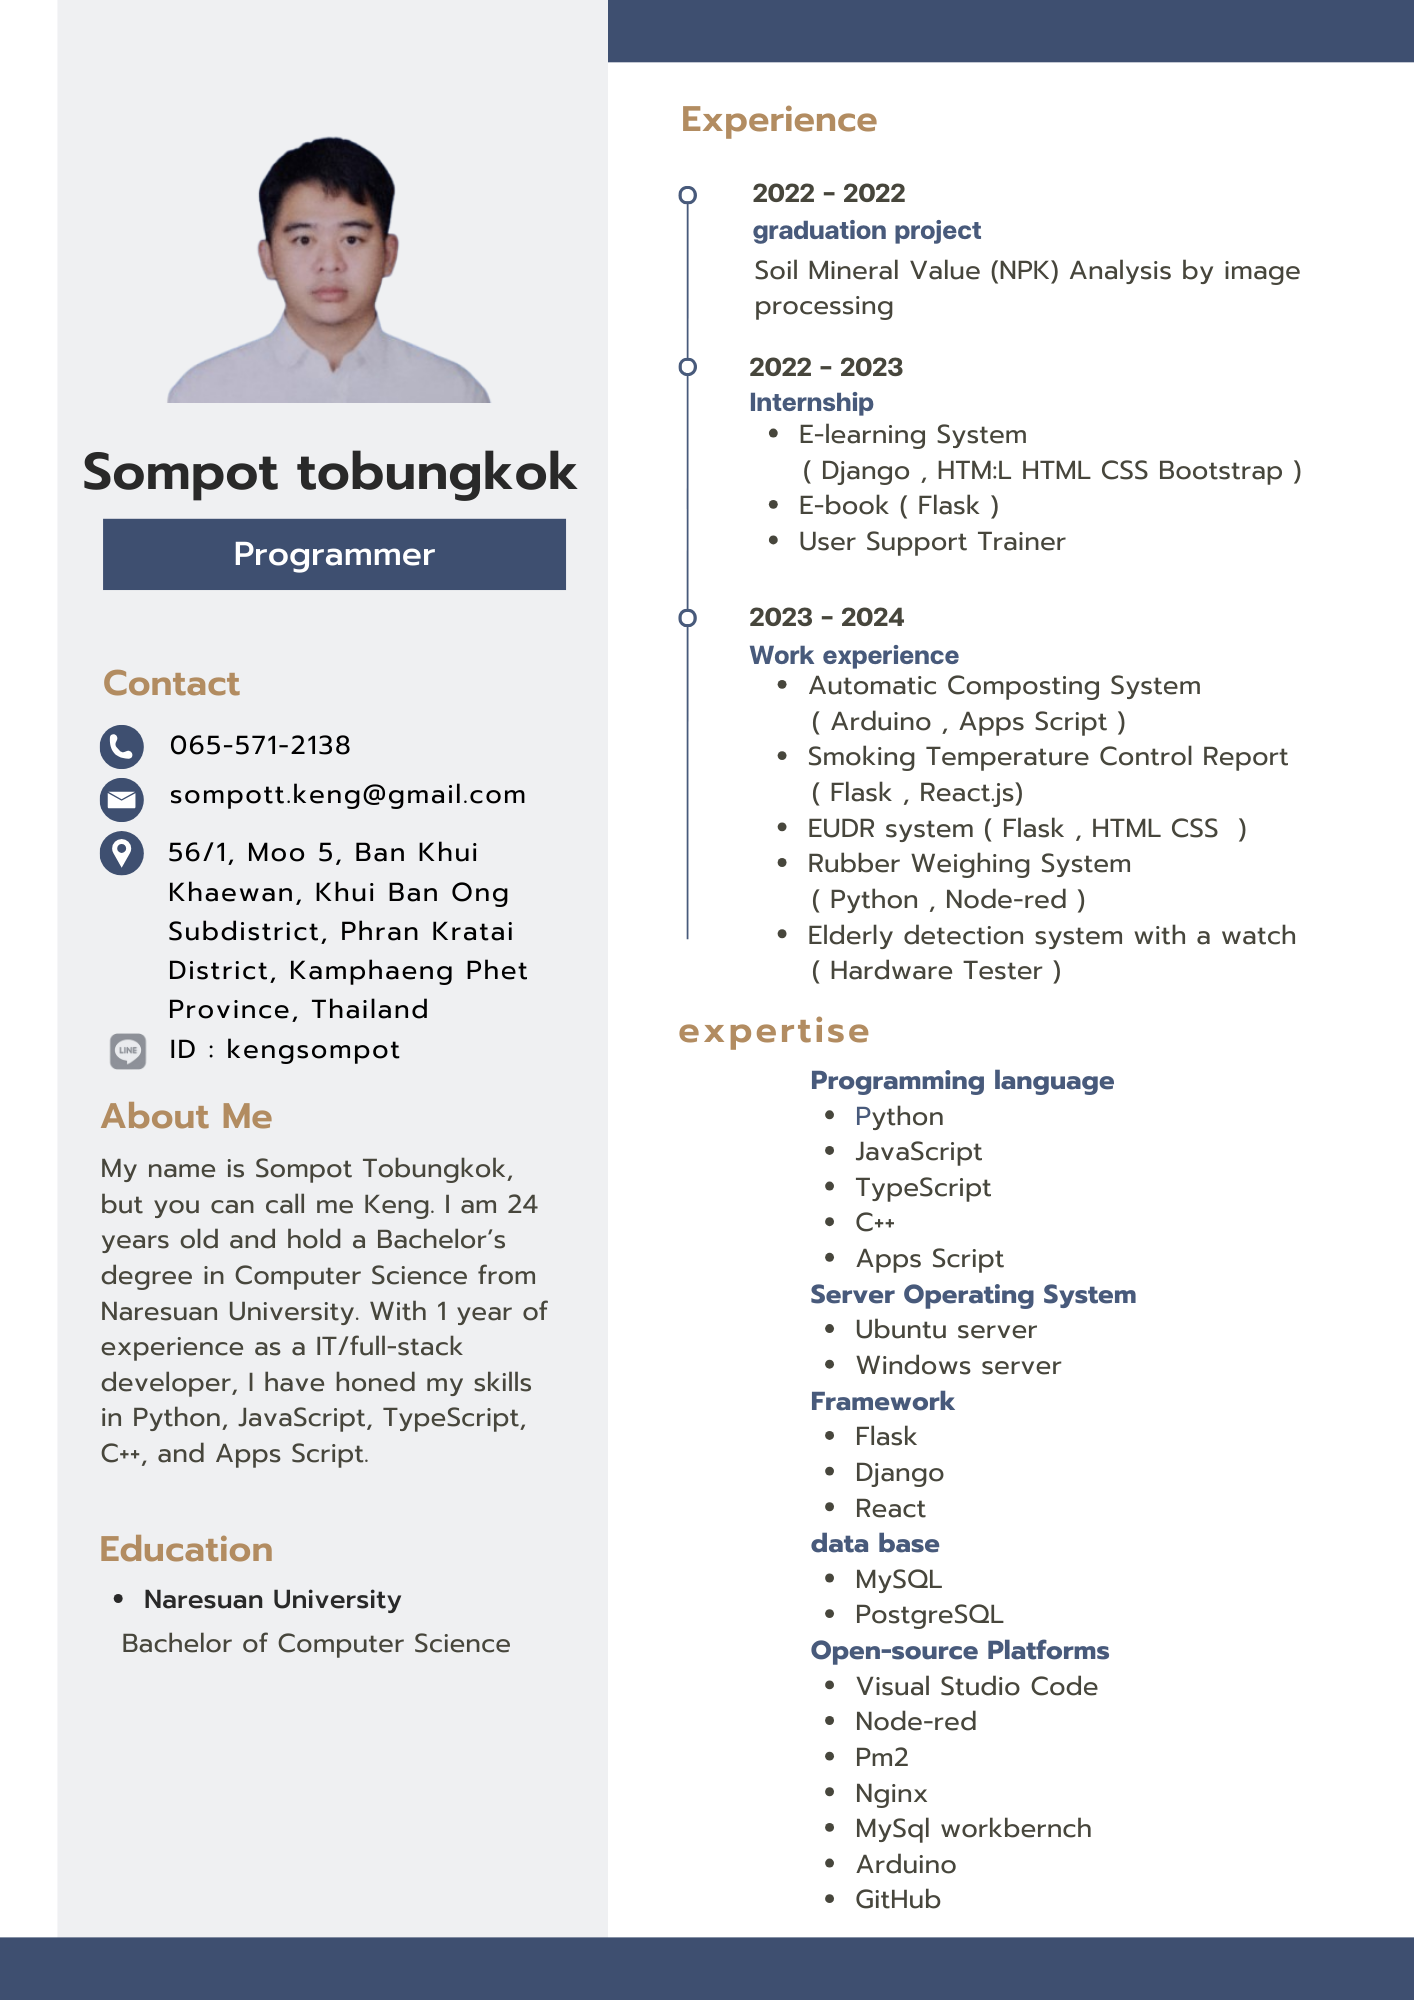
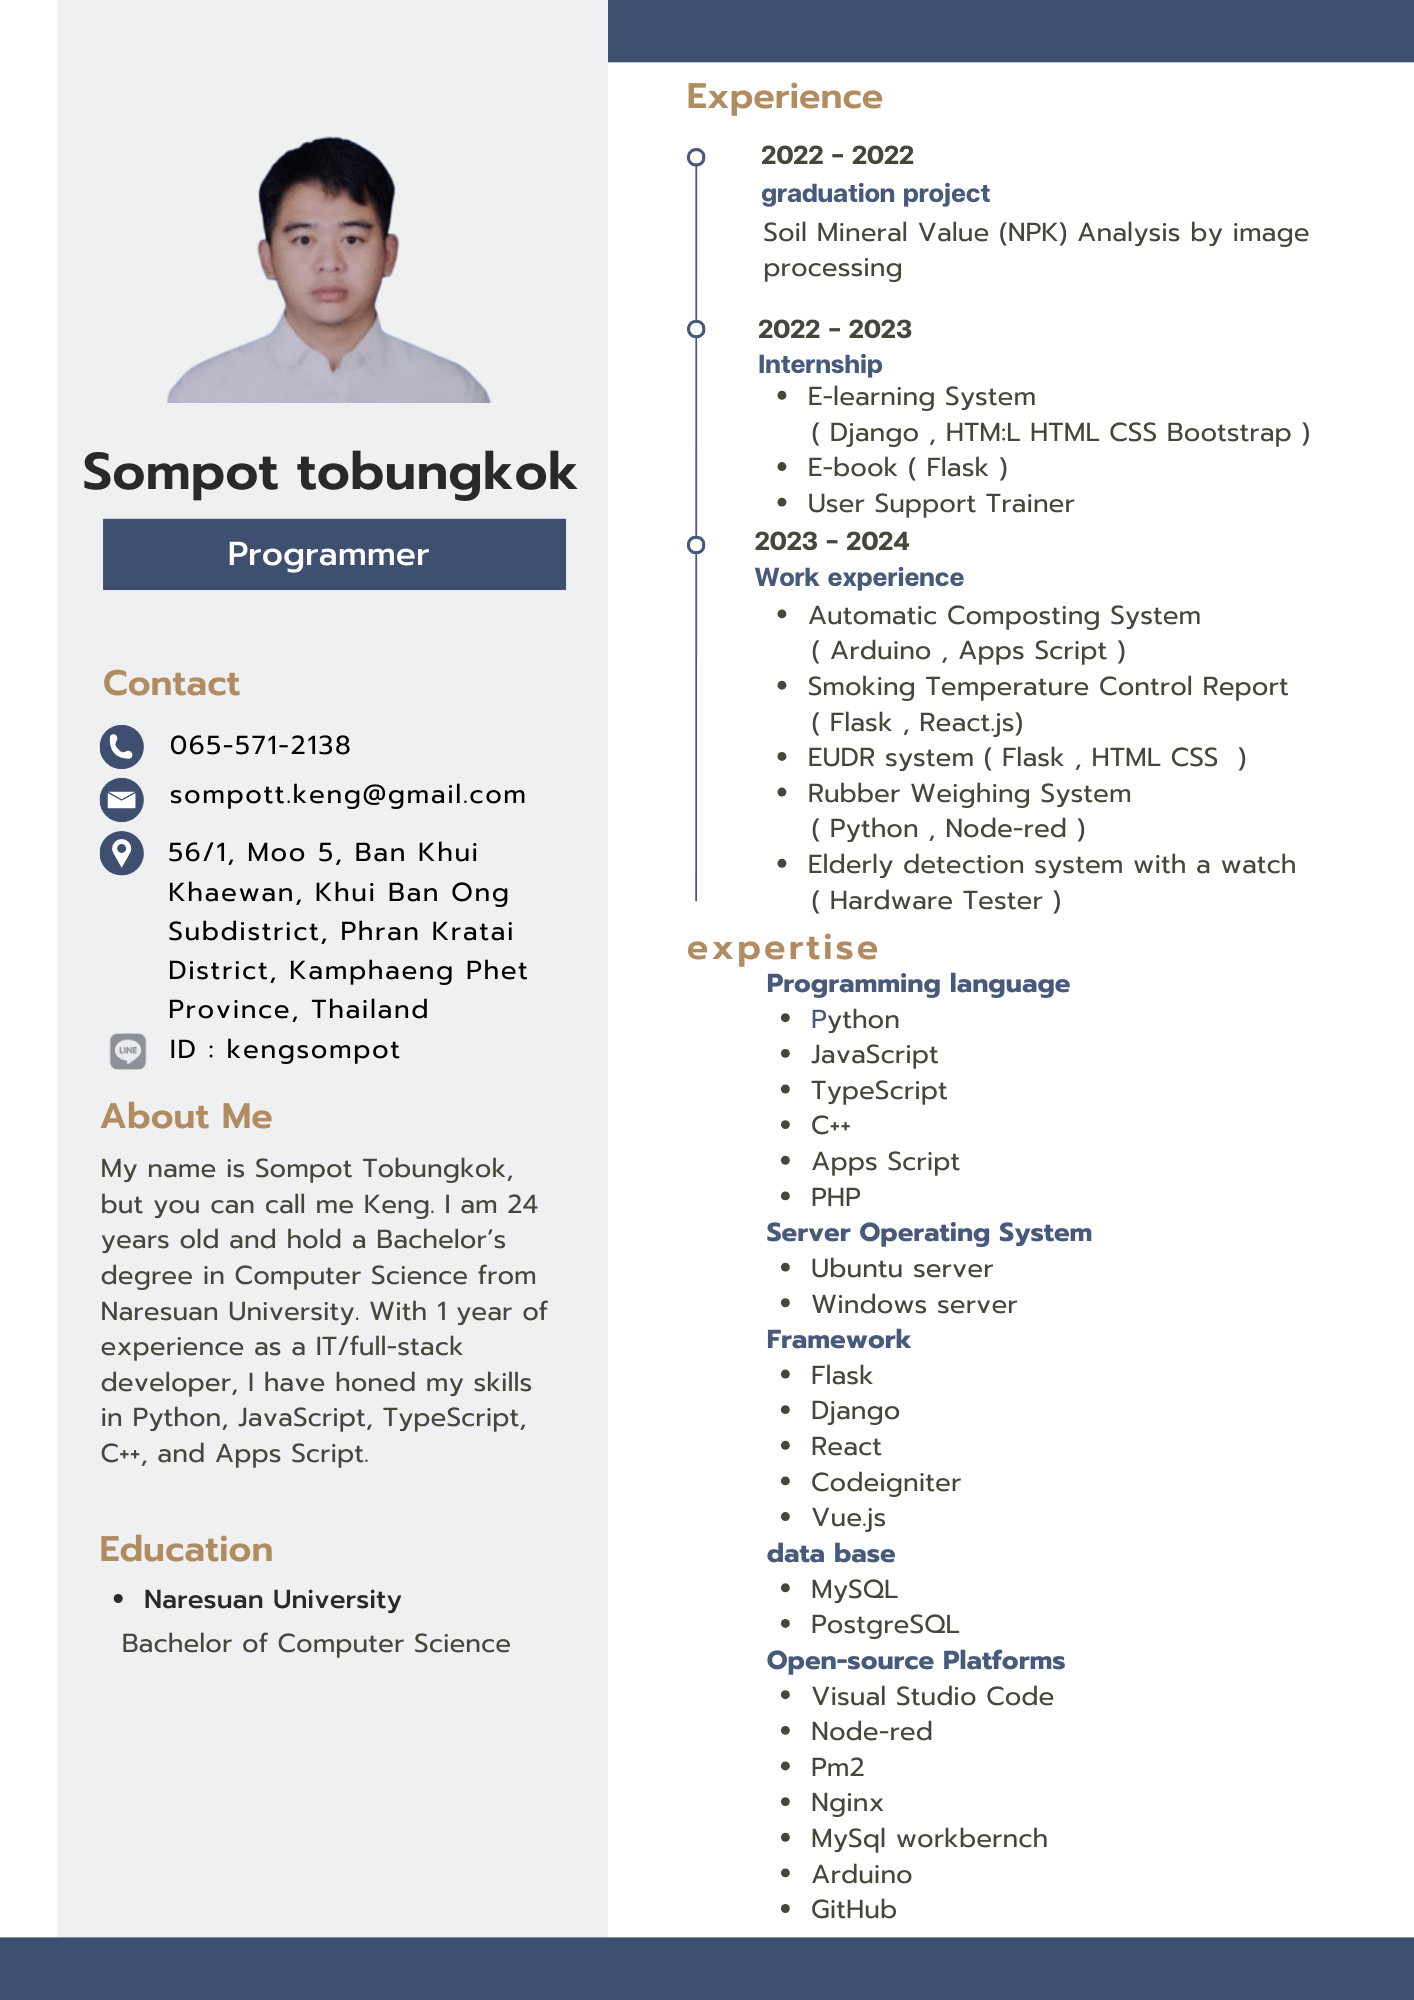
add

diff --git a/templates/index.html b/templates/index.html
@@ -3,7 +3,6 @@
 <head>
     <meta charset="UTF-8">
     <meta name="viewport" content="width=device-width, initial-scale=1.0">
-    <!-- <title>Alex Carry - UI/UX Designer</title> -->
     <link href="https://cdnjs.cloudflare.com/ajax/libs/bootstrap/5.3.0/css/bootstrap.min.css" rel="stylesheet">
     <link rel="stylesheet" href="https://cdnjs.cloudflare.com/ajax/libs/font-awesome/6.4.0/css/all.min.css">
     <link rel="stylesheet" href="{{ url_for('static', filename='css/styles.css') }}" />
@@ -25,7 +24,7 @@
                         <a class="nav-link" href="#home">Home</a>
                     </li>
                     <li class="nav-item">
-                        <a class="nav-link" href="#about">Education</a>
+                        <a class="nav-link" href="#education">Education</a>
                     </li>
                     <li class="nav-item">
                         <a class="nav-link" href="#services">Experience</a>
@@ -50,8 +49,8 @@
             <div class="row">
                 <div class="col-lg-5 col-md-12">
                     <div class="about-img">
-                        <img src="https://cdn.pixabay.com/photo/2015/10/05/22/37/blank-profile-picture-973460_1280.png" alt="Profile Photo" class="img-fluid"/>
-                        <!-- <img src="{{ url_for('static', filename='images/preview.png') }}" alt="About Alex" class="img-fluid"> -->
+                        <!-- <img src="https://cdn.pixabay.com/photo/2015/10/05/22/37/blank-profile-picture-973460_1280.png" alt="Profile Photo" class="img-fluid"/> -->
+                        <img src="{{ url_for('static', filename='images/profile1.png') }}" alt="" class="img-fluid">
                     </div>
                 </div>
                 <div class="col-lg-7 col-md-12 about-content">
@@ -64,7 +63,7 @@
                         <div class="col-md-6">
                             <div class="skill-item">
                                 <div class="skill-name">
-                                    <span>UI Design</span>
+                                    <span>Python</span>
                                     <span>95%</span>
                                 </div>
                                 <div class="skill-bar">
@@ -75,7 +74,7 @@
                         <div class="col-md-6">
                             <div class="skill-item">
                                 <div class="skill-name">
-                                    <span>UX Research</span>
+                                    <span>JavaScript</span>
                                     <span>90%</span>
                                 </div>
                                 <div class="skill-bar">
@@ -86,7 +85,7 @@
                         <div class="col-md-6">
                             <div class="skill-item">
                                 <div class="skill-name">
-                                    <span>Prototyping</span>
+                                    <span> C++</span>
                                     <span>92%</span>
                                 </div>
                                 <div class="skill-bar">
@@ -97,7 +96,7 @@
                         <div class="col-md-6">
                             <div class="skill-item">
                                 <div class="skill-name">
-                                    <span>Design Systems</span>
+                                    <span>PHP</span>
                                     <span>88%</span>
                                 </div>
                                 <div class="skill-bar">
@@ -115,8 +114,8 @@
         </div>
     </section>
 
-    <!-- About Section -->
-    <section id="about">
+    <!-- Education Section -->
+    <section id="education">
       <div class="container">
           <div class="text-center mb-5">
               <h2 class="section-title">Education</h2>
@@ -262,8 +261,7 @@
                             <li>
                               EUDR system <br>
                               <span class="portfolio-tag">Flask</span>
-                              <span class="portfolio-tag">HTML</span>
-                              <span class="portfolio-tag">CSS</span>
+                              <span class="portfolio-tag">HTML CSS Bootstrap</span>
                             </li>
                             <li>
                               Rubber Weighing System <br>
@@ -319,13 +317,13 @@
         <div class="container">
             <div class="text-center mb-5">
                 <h2 class="section-title">Portfolio</h2>
-                <p class="section-subtitle">Browse through my latest projects and design work</p>
+                <!-- <p class="section-subtitle">Browse through my latest projects and design work</p> -->
             </div>
             <div class="portfolio-filter">
                 <div class="filter-item active" data-filter="all">All</div>
-                <div class="filter-item" data-filter="web">Web Design</div>
+                <div class="filter-item" data-filter="web">Web Application</div>
                 <div class="filter-item" data-filter="iot">IoT</div>
-                <div class="filter-item" data-filter="branding">Branding</div>
+                <div class="filter-item" data-filter="others">Others</div>
             </div>
             <div class="row" id="portfolio-items-container">
                 <!-- Portfolio items will be displayed here -->
@@ -408,6 +406,7 @@
                             <li>TypeScript</li>
                             <li>C++</li>
                             <li>Apps Script</li>
+                            <li>PHP</li>
                         </ul>
                     </div>
                 </div>
@@ -435,6 +434,8 @@
                             <li>Flask</li>
                             <li>Django</li>
                             <li>React</li>
+                            <li>Vue.js</li>
+                            <li>Codeigniter</li>
                         </ul>
                     </div>
                 </div>
@@ -466,6 +467,7 @@
                             <li>MySql workbernch</li>
                             <li>Arduino</li>
                             <li>GitHub</li>
+                            <li>Figma</li>
                         </ul>
                     </div>
                 </div>
@@ -479,14 +481,17 @@
         <div class="container">
             <div class="text-center mb-5">
                 <h2 class="section-title">Contact</h2>
-                <p class="section-subtitle">Let's discuss your project and create something amazing together</p>
+                <!-- <p class="section-subtitle">Let's discuss your project and create something amazing together</p> -->
             </div>
             <div class="row">
                 <div class="col-lg-5">
                     <div class="contact-info-item">
                         <div class="contact-icon">
-                            <i class="fas fa-envelope"></i>
+                            <a href="mailto:sompott.keng@gmail.com">
+                                <i class="fas fa-envelope"></i>
+                            </a>
                         </div>
+                        
                         <div class="contact-text">
                             <h4>Email</h4>
                             <p>sompott.keng@gmail.com</p>
@@ -494,8 +499,11 @@
                     </div>
                     <div class="contact-info-item">
                         <div class="contact-icon">
-                            <i class="fas fa-phone"></i>
+                            <a href="tel:0655712138">
+                                <i class="fas fa-phone"></i>
+                            </a>
                         </div>
+                        
                         <div class="contact-text">
                             <h4>Phone</h4>
                             <p>065-571-2138</p>
@@ -503,14 +511,16 @@
                     </div>
                     <div class="contact-info-item">
                         <div class="contact-icon">
-                            <i class="fa-brands fa-line"></i>
-                        </div>
+                            <a href="https://line.me/ti/p/W_Fmc68UxH" target="_blank">
+                                <i class="fa-brands fa-line"></i>
+                            </a>
+                        </div>                        
                         <div class="contact-text">
                             <h4>Line</h4>
                             <p>ID : kengsompot</p>
                         </div>
                     </div>
-                    <div class="mt-4 mb-4">
+                    <!-- <div class="mt-4 mb-4">
                         <div class="footer-social">
                             <a href="#"><i class="fab fa-twitter"></i></a>
                             <a href="#"><i class="fab fa-facebook-f"></i></a>
@@ -518,7 +528,7 @@
                             <a href="#"><i class="fab fa-linkedin-in"></i></a>
                             <a href="#"><i class="fab fa-dribbble"></i></a>
                         </div>
-                    </div>
+                    </div> -->
                 </div>
                 <div class="col-lg-7">
                     <form class="contact-form">
@@ -533,16 +543,16 @@
     <footer>
         <div class="container">
             <div class="footer-logo">-<span>-</span></div>
-            <div class="footer-social">
+            <!-- <div class="footer-social">
                 <a href="#"><i class="fab fa-twitter"></i></a>
                 <a href="#"><i class="fab fa-facebook-f"></i></a>
                 <a href="#"><i class="fab fa-instagram"></i></a>
                 <a href="#"><i class="fab fa-linkedin-in"></i></a>
                 <a href="#"><i class="fab fa-dribbble"></i></a>
-            </div>
+            </div> -->
             <div class="copyright">
-                &copy; 2025  Reserved.
-            </div>
+                &copy;  All rights reserved. | Resume
+              </div>
         </div>
     </footer>
 

diff --git a/static/js/data.js b/static/js/data.js
@@ -36,24 +36,24 @@ document.addEventListener('DOMContentLoaded', function() {
             ],
             title: "Rubber Weighing System",
             description: "A system for recording daily rubber block weights and generating summary reports for TTN RUBBER COMPANY LIMITED",
-            tags: ["UI Design", "Mobile", "Fintech"],
+            tags: ["Node-red", "Python",],
             customClass: "custom-image"
         },
         {
             category: 'web',
             imageSrc: "static/images/eudr.jpeg",
             images: [
-                "static/images/notify.png",
-                "static/images/ttn.jpeg",
-                "static/images/gr.jpeg"
+                // "static/images/notify.png",
+                // "static/images/ttn.jpeg",
+                // "static/images/gr.jpeg"
             ],
             title: "EUDR system",
             description: "A system designed to record rubber plantation farmers' data and generate PDF files for TTN RUBBER COMPANY LIMITED",
-            tags: ["UI Design", "Mobile", "Fintech"],
+            tags: ["Flask", "HTML CSS Bootstrap"],
             customClass: "custom-image_eudr"
         },
         {
-            category: 'branding',
+            category: 'others',
             imageSrc: "static/images/notify.png",
             images: [
                 "static/images/notify5.jpg",
@@ -66,10 +66,10 @@ document.addEventListener('DOMContentLoaded', function() {
             customClass: "custom-image1"
         },
         {
-            category: 'branding',
+            category: 'others',
             imageSrc: "static/images/watch5.jpg",
             images: [
-                "static/images/watch6.jpg",
+                "static/images/watch5.jpg",
                 "static/images/watch1.jpg",
                 "static/images/watch8.jpg"
             ],
@@ -80,14 +80,14 @@ document.addEventListener('DOMContentLoaded', function() {
         
         // Page 2 items - Add your new projects here
         {
-            category: 'web',
+            category: 'others',
             imageSrc: "static/images/npk.jpeg",
             images: [
                 "static/images/npk1.jpeg",
             ],
-            title: "Soil Mineral Value (NPK) Analysis by image processing",
+            title: "Soil Mineral Value (NPK) Analysis",
             description: "Interactive learning management system built with Django and Bootstrap.",
-            tags: ["Django", "Bootstrap", "Education"],
+            tags: ["image processing"],
             customClass: "custom-image_eudr"
         },
         {
@@ -99,7 +99,7 @@ document.addEventListener('DOMContentLoaded', function() {
             ],
             title: "Automatic Composting System",
             description: "IoT solution for monitoring and managing composting processes.",
-            tags: ["Arduino", "Apps Script", "IoT"],
+            tags: ["Arduino", "Apps Script"],
             customClass: "custom-image"
         },
         // Add more items as needed

diff --git a/static/css/styles.css b/static/css/styles.css
@@ -223,7 +223,7 @@ section {
 /* สำหรับหน้าจอขนาดใหญ่ เช่น เดสก์ท็อป */
 @media (min-width: 1025px) {
     .about-img {
-        width: 450px;
+        width: 350px;
         height: auto;
     }
 }
@@ -526,7 +526,15 @@ section {
     font-size: 20px;
     margin-right: 15px;
 }
+.contact-icon i {
+    color: #e69a00; /* เปลี่ยนสีไอคอนเป็นสีเหลือง */
+    font-size: 24px; /* ขนาดไอคอน */
+    transition: color 0.3s ease; /* การเปลี่ยนสีแบบเนียน ๆ */
+}
 
+.contact-icon a:hover i {
+    color: gold; /* สีเมื่อมีการ hover (เอาเมาส์ไปชี้) */
+}
 .contact-text h4 {
     font-size: 18px;
     font-weight: 600;
